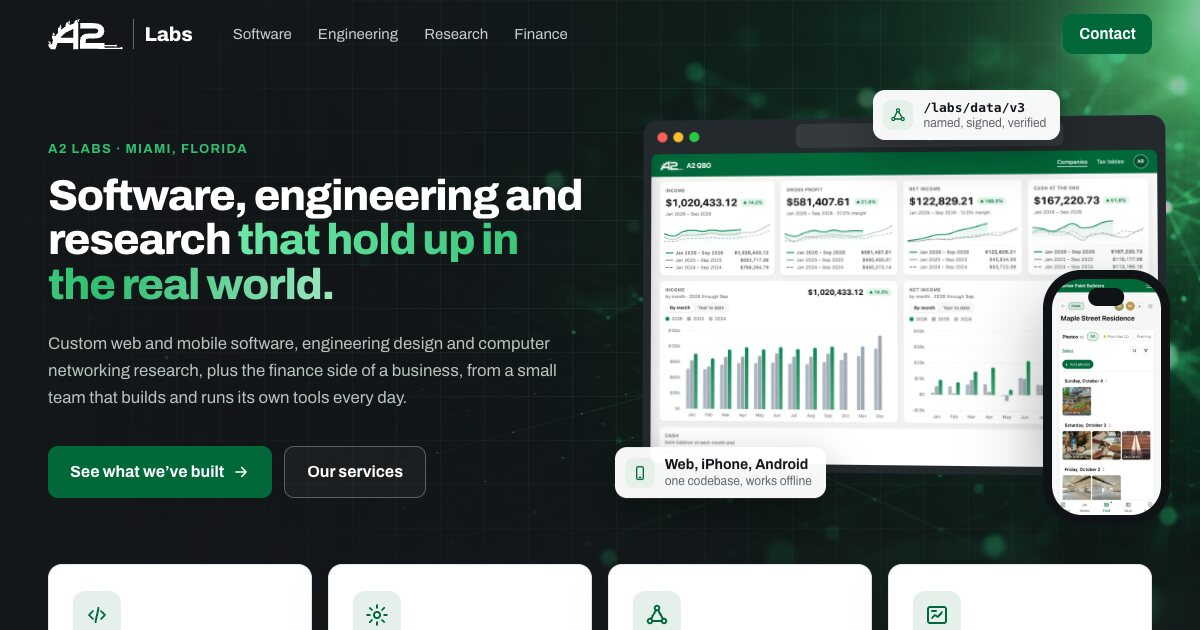
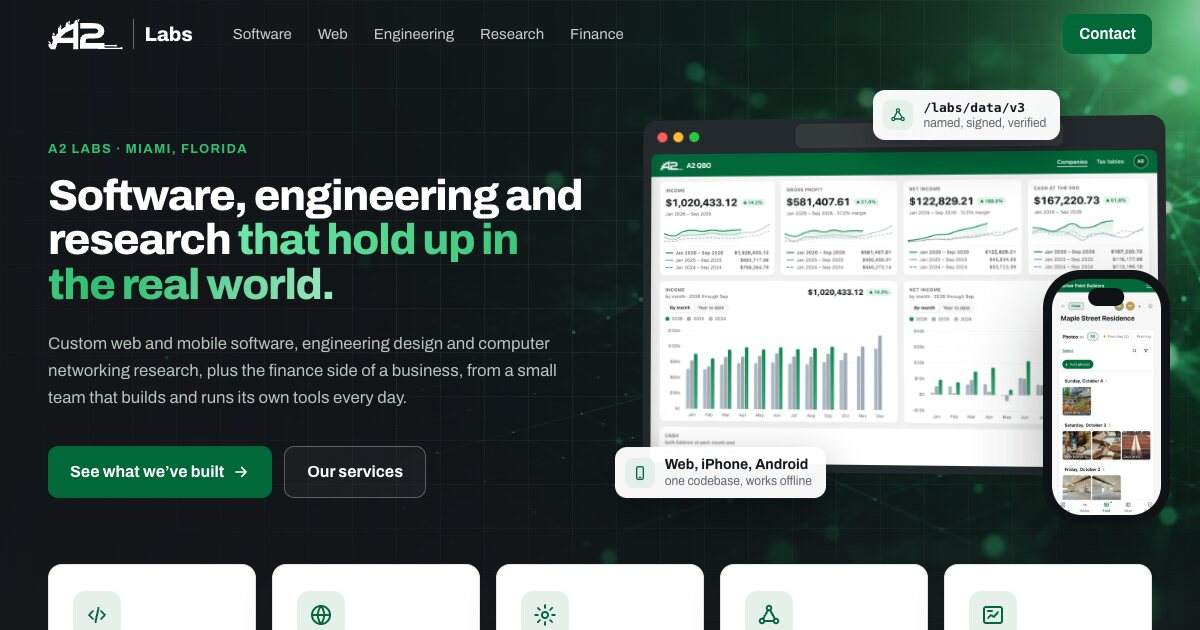
Web design becomes its own service at /web/
Software (apps) and Web (websites) are separate service lines: /web/ has the
portfolio with links to the sites, and Web joins the menu, home cards,
footer, contact topics, structured data and llms.txt. Framework labels and
the technology list are gone.

Claude-Session: https://claude.ai/code/session_012cbtMP4PKFxgYyhK3oRstV

diff --git a/src/data/portfolio.ts b/src/data/portfolio.ts
@@ -1,4 +1,4 @@
-// Websites we designed and built, shown on /software/#web-design with
+// Websites we designed and built, shown on /web/ with
 // followed links (they help those sites' search rankings too). Screenshots
 // in public/web/ are captures of the live sites: <name>.webp (1440 wide),
 // <name>-800.webp and <name>-phone.webp (400 wide).
@@ -9,7 +9,6 @@ export const portfolio = [
     url: 'https://a2cons.com',
     kind: 'Residential construction · Miami',
     body: 'Services, past projects, awards and a contact form for a Miami builder, with project galleries and structured data for local search.',
-    stack: 'Jekyll',
   },
   {
     id: 'turnpike',
@@ -17,7 +16,6 @@ export const portfolio = [
     url: 'https://turnpikelectric.a2cons.com',
     kind: 'Electrical contractor · Florida',
     body: 'Services, projects, careers and estimate requests for a statewide electrical contractor, with a rotating photo hero.',
-    stack: 'Astro',
   },
   {
     id: 'sadler',
@@ -25,7 +23,6 @@ export const portfolio = [
     url: 'https://sadlerfarmsllc.com',
     kind: 'Land offering · Alabama',
     body: 'A 300-acre lakeside property presented with a narrated drone film, adaptive video streaming, aerial galleries and a developer package.',
-    stack: 'Jekyll · HLS video',
   },
   {
     id: 'ndncomm',
@@ -33,7 +30,6 @@ export const portfolio = [
     url: 'https://ndncomm.named-data.net',
     kind: 'Research community meeting',
     body: 'The home of the Named Data Networking community meeting, archiving twelve years of programs, slides and recordings.',
-    stack: 'Astro',
   },
   {
     id: 'labs',
@@ -41,7 +37,6 @@ export const portfolio = [
     url: 'https://labs.a2cons.com',
     kind: 'This site',
     body: 'Five pages, fast on a phone, with structured data and an llms.txt so search engines and AI assistants can read it.',
-    stack: 'Astro',
   },
   {
     id: 'knockout',
@@ -49,6 +44,5 @@ export const portfolio = [
     url: 'https://knockout-plumbing.com',
     kind: 'Plumbing contractor · Earlier work',
     body: 'A residential and commercial plumbing contractor’s site from an earlier generation of our work; a redesign is on the way.',
-    stack: 'Jekyll',
   },
 ];

diff --git a/src/styles/global.css b/src/styles/global.css
@@ -592,7 +592,7 @@ h4 {
   position: relative;
   z-index: 2;
   display: grid;
-  grid-template-columns: repeat(4, minmax(0, 1fr));
+  grid-template-columns: repeat(5, minmax(0, 1fr));
   gap: 16px;
   margin-top: -84px;
 }
@@ -901,7 +901,7 @@ h4 {
 /* Home: engineering / research / finance cards */
 .more-grid {
   display: grid;
-  grid-template-columns: repeat(3, minmax(0, 1fr));
+  grid-template-columns: repeat(2, minmax(0, 1fr));
   gap: 24px;
 }
 
@@ -1120,6 +1120,40 @@ h4 {
   font-size: 13px;
   font-weight: 600;
   color: var(--soft);
+}
+
+/* Software page: three site thumbnails linking to Web design */
+.site-strip {
+  display: grid;
+  grid-template-columns: repeat(3, minmax(0, 1fr));
+  gap: 20px;
+  margin-top: 48px;
+}
+
+.site-thumb {
+  display: block;
+  color: var(--ink);
+  font-weight: 700;
+  text-decoration: none;
+}
+
+.site-thumb img {
+  border-radius: 12px;
+  border: 1px solid var(--line);
+  box-shadow: var(--shadow-md);
+  aspect-ratio: 16 / 10;
+  object-fit: cover;
+  object-position: top;
+  transition: transform 0.25s;
+}
+
+.site-thumb:hover img {
+  transform: translateY(-3px);
+}
+
+.site-thumb span {
+  display: block;
+  margin-top: 12px;
 }
 
 /* Research / engineering cards */
@@ -1634,7 +1668,8 @@ h4 {
 
   .product-pair,
   .capabilities,
-  .sites {
+  .sites,
+  .site-strip {
     grid-template-columns: minmax(0, 1fr);
   }
 }

diff --git a/src/data/services.ts b/src/data/services.ts
@@ -10,6 +10,14 @@ export const services = [
     summary: 'Web and mobile apps built around how your business actually works, from first sketch to the app store.',
   },
   {
+    id: 'web',
+    href: '/web/',
+    icon: 'globe',
+    title: 'Web design',
+    nav: 'Web',
+    summary: 'Fast, good-looking websites that rank in search and read correctly to AI assistants.',
+  },
+  {
     id: 'engineering',
     href: '/engineering/',
     icon: 'gear',
